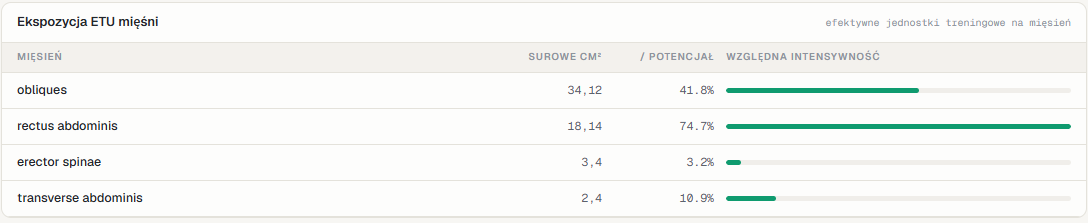
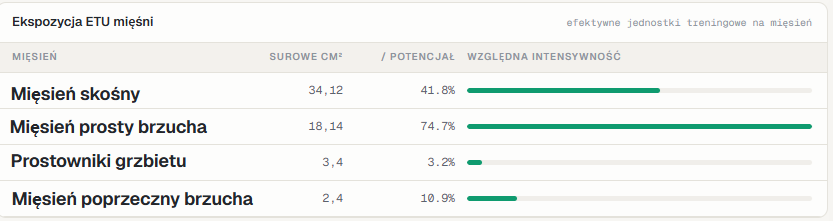
fdasfsa

diff --git a/web-fe/src/i18n/locales/pl/home.ts b/web-fe/src/i18n/locales/pl/home.ts
@@ -80,7 +80,7 @@ export default {
     footer: { navigation: 'Nawigacja strony głównej', links: { exerciseAtlas: 'Atlas ćwiczeń', muscleAtlas: 'Atlas mięśni', planBuilder: 'Kreator planu', analysis: 'Analiza', model: 'Model' }, disclaimer: 'Wartości Agonez są modelowanymi estymatami opartymi na jawnych założeniach. Nie są pomiarem organizmu ani poradą medyczną.' },
     badges: { comingSoon: 'COMING SOON', experimental: 'MODEL EKSPERYMENTALNY' },
     images: {
-      heroAnatomy: 'Anatomia bodźca pokazująca tygodniowy modelowany rozkład na ciele', heroMicrocycle: 'Mikrocykl z dniami treningowymi i odpoczynkowymi', atlasGrid: 'Siatka kart Atlasu ćwiczeń z filtrami i stałą anatomią', etuRows: 'Tabela modelowanych wartości ekspozycji mięśni', etuAnatomy: 'Modelowana heatmapa ETU na anatomii z przodu i z tyłu', technique: 'Skrócona instrukcja ustawienia i wykonania techniki', classification: 'Panel klasyfikacji wariantu ćwiczenia', builderDays: 'Uporządkowany mikrocykl z dniami treningowymi i odpoczynkowymi', builderSlot: 'Slot ćwiczenia z rolą, ćwiczeniem domyślnym i receptą serii', analysisStrip: 'Pasek dni mikrocyklu z bodźcem i aktywnymi modelowanymi długami', recoveryAnatomy: 'Modelowany stan lokalnej regeneracji mięśni po treningu', ranking: 'Ranking mięśni według modelowanego tygodniowego bodźca', debts: 'Lista najsilniejszych modelowanych długów regeneracyjnych', muscleCards: 'Karty Atlasu mięśni z anatomią, masą i szacowanym FCSA', mark: 'Agonez',
+      heroAnatomy: 'Anatomia bodźca pokazująca tygodniowy modelowany rozkład na ciele', heroMicrocycle: 'Mikrocykl z dniami treningowymi i odpoczynkowymi', atlasGrid: 'Siatka kart Atlasu ćwiczeń z filtrami i stałą anatomią', exerciseName: 'Identyfikacja ćwiczenia brzuszki na maszynie siedząc wraz z demonstracją', etuRows: 'Tabela modelowanych wartości ekspozycji mięśni', etuAnatomy: 'Modelowana heatmapa ETU na anatomii z przodu i z tyłu', technique: 'Skrócona instrukcja ustawienia i wykonania techniki', classification: 'Panel klasyfikacji wariantu ćwiczenia', builderDays: 'Uporządkowany mikrocykl z dniami treningowymi i odpoczynkowymi', builderSlot: 'Slot ćwiczenia z rolą, ćwiczeniem domyślnym i receptą serii', analysisStrip: 'Pasek dni mikrocyklu z bodźcem i aktywnymi modelowanymi długami', recoveryAnatomy: 'Modelowany stan lokalnej regeneracji mięśni po treningu', ranking: 'Ranking mięśni według modelowanego tygodniowego bodźca', debts: 'Lista najsilniejszych modelowanych długów regeneracyjnych', muscleCards: 'Karty Atlasu mięśni z anatomią, masą i szacowanym FCSA', mark: 'Agonez',
     },
   },
 }

diff --git a/web-fe/src/components/home/HomeShowcases.vue b/web-fe/src/components/home/HomeShowcases.vue
@@ -44,15 +44,17 @@ const features = [
         <HomeImage class="home-product-image" path="atlas-exercises/atlas-grid.png" :alt="$t('home.images.atlasGrid')" :width="1590" :height="1218" />
       </div>
 
-      <article class="home-media-panel home-wide-panel">
-        <header class="home-panel-heading home-panel-heading-inline">
-          <strong>{{ $t('home.exerciseAtlas.etuRows.title') }}</strong>
-          <span>{{ $t('home.exerciseAtlas.etuRows.body') }}</span>
-        </header>
-        <HomeImage path="atlas-exercises/etu-rows.png" :alt="$t('home.images.etuRows')" :width="1088" :height="212" />
-      </article>
-
       <div class="home-detail-grid">
+        <div class="home-media-panel home-exercise-identity">
+          <HomeImage path="atlas-exercises/exercise-name.png" :alt="$t('home.images.exerciseName')" :width="475" :height="171" />
+        </div>
+        <article class="home-media-panel home-exercise-etu">
+          <header class="home-panel-heading home-panel-heading-inline">
+            <strong>{{ $t('home.exerciseAtlas.etuRows.title') }}</strong>
+            <span>{{ $t('home.exerciseAtlas.etuRows.body') }}</span>
+          </header>
+          <HomeImage path="atlas-exercises/etu-rows.png" :alt="$t('home.images.etuRows')" :width="709" :height="225" />
+        </article>
         <article class="home-media-panel">
           <header class="home-panel-heading">
             <strong>{{ $t('home.exerciseAtlas.etuAnatomy.title') }}</strong>

diff --git a/web-fe/tests/home.test.ts b/web-fe/tests/home.test.ts
@@ -3,6 +3,7 @@ import { describe, expect, it } from 'vitest'
 
 import HomeCoaches from '@/components/home/HomeCoaches.vue'
 import HomeImage from '@/components/home/HomeImage.vue'
+import HomeShowcases from '@/components/home/HomeShowcases.vue'
 import { useTheme } from '@/composables/useTheme'
 import { setActiveLocale } from '@/i18n'
 import router from '@/router'
@@ -48,5 +49,25 @@ describe('Home page integration', () => {
 
     expect(wrapper.findAll('.home-coach-grid article')).toHaveLength(5)
     expect(wrapper.get('.home-coach-grid').text()).toContain('Every athlete is different')
+  })
+
+  it('renders the localized exercise identity inside the detail grid', async () => {
+    await setActiveLocale('pl', { persist: false })
+    useTheme().setTheme('dark')
+    const wrapper = mount(HomeShowcases, {
+      global: {
+        stubs: {
+          RouterLink: { template: '<a><slot /></a>' },
+        },
+      },
+    })
+
+    const grid = wrapper.get('.home-detail-grid')
+    const identity = wrapper.get('.home-exercise-identity')
+    const image = identity.get('img')
+    expect(identity.element.parentElement).toBe(grid.element)
+    expect(wrapper.get('.home-exercise-etu').element.parentElement).toBe(grid.element)
+    expect(image.attributes('src')).toBe('/img/home/pl-dark/atlas-exercises/exercise-name.png')
+    expect(image.attributes('alt')).toContain('brzuszki na maszynie siedząc')
   })
 })

diff --git a/web-fe/src/i18n/locales/en/home.ts b/web-fe/src/i18n/locales/en/home.ts
@@ -182,6 +182,7 @@ export default {
       heroAnatomy: 'Stimulus anatomy showing the weekly modelled distribution across the body',
       heroMicrocycle: 'Microcycle with training and rest days',
       atlasGrid: 'Exercise Atlas card grid with filters and a persistent anatomy view',
+      exerciseName: 'Seated abdominal crunch exercise identity with a machine demonstration',
       etuRows: 'Table of modelled muscle exposure values',
       etuAnatomy: 'Modelled ETU heatmap on front and rear anatomy',
       technique: 'Short setup and execution technique guide',

diff --git a/web-fe/src/styles/home.css b/web-fe/src/styles/home.css
@@ -527,13 +527,14 @@
   background: var(--home-panel);
 }
 
+.home-exercise-identity {
+  display: grid;
+  align-content: center;
+}
+
 .home-media-panel {
   min-width: 0;
   border-radius: 14px;
-}
-
-.home-wide-panel {
-  margin-top: 18px;
 }
 
 .home-panel-heading {
